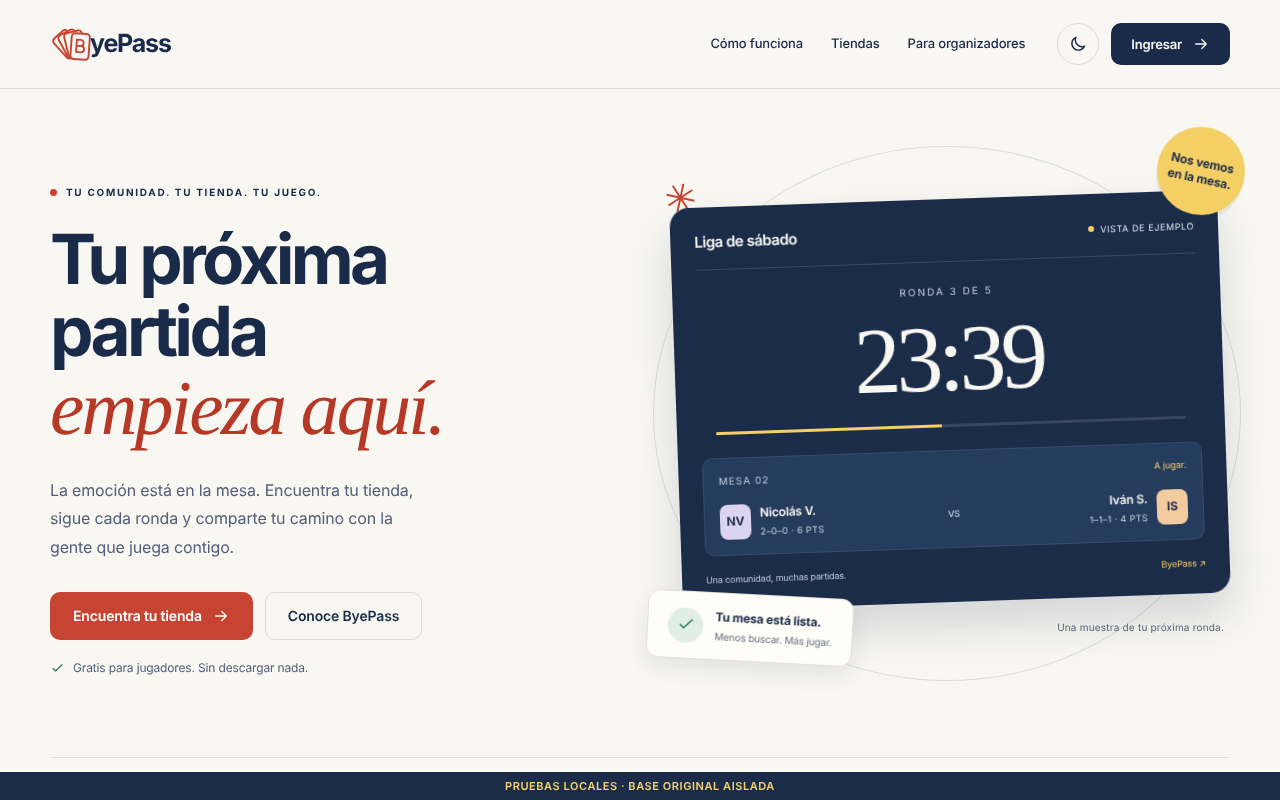
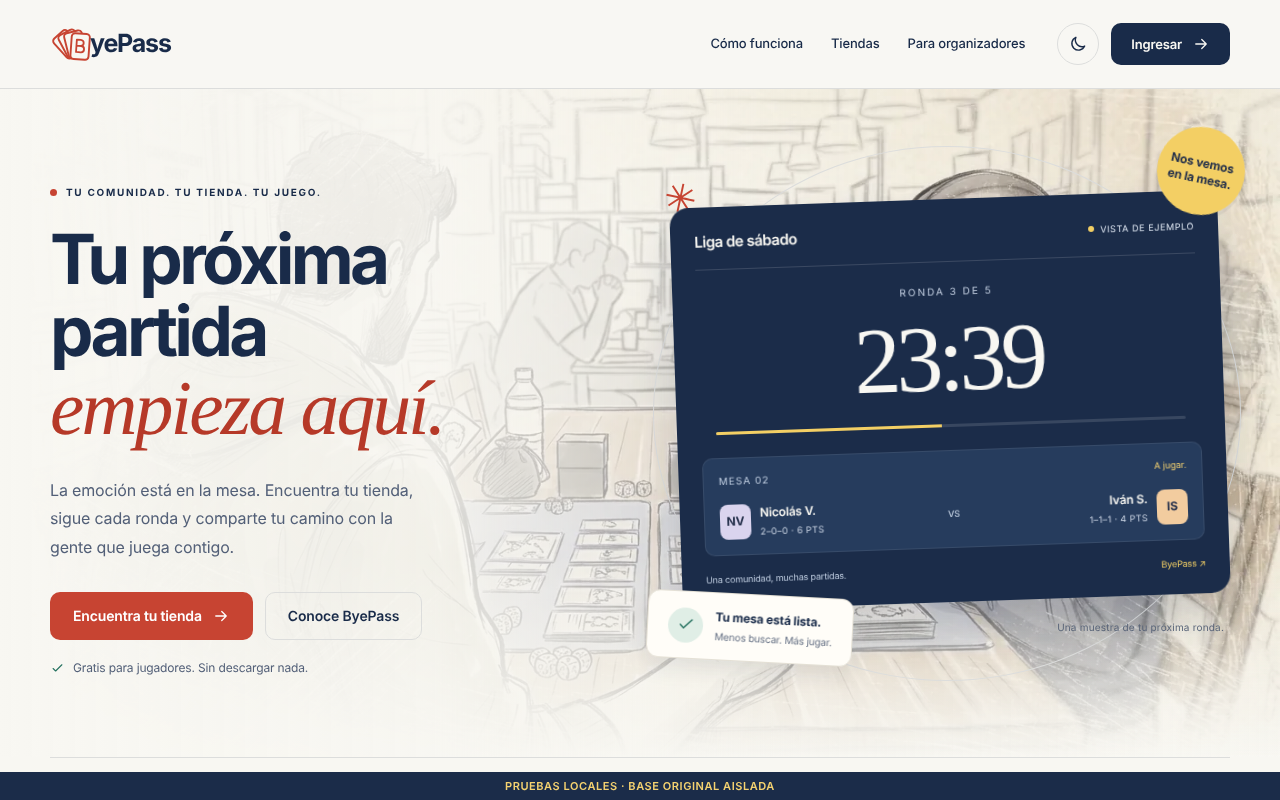
Agregar ilustración de fondo a la portada
La imagen se desvanece hacia el texto para mantener el contraste, tiene
velo azul en modo oscuro y una versión liviana para el celular. El servidor
local sirve .webp y .jpg con su tipo correcto.

Claude-Session: https://claude.ai/code/session_017J8qEyXYCgoE6VSbobpe33

Changed region(s): [[0.3438, 0.0938, 1.0, 0.9062], [0.5625, 0.8125, 0.625, 0.9062], [0.375, 0.75, 0.4062, 0.7812]]

diff --git a/web/portada.css b/web/portada.css
@@ -236,3 +236,26 @@ h1,h2,h3,p {margin:0}
 @media (prefers-reduced-motion:reduce) {
   html{scroll-behavior:auto}*,*::before,*::after{animation:none!important;transition:none!important}
 }
+
+/* Ilustración de fondo de la portada: una partida en la tienda. Se desvanece hacia el texto
+   para que el título y los botones conserven el contraste. */
+html {overflow-x:clip}
+.hero {position:relative;isolation:isolate}
+.hero::before {content:"";position:absolute;z-index:-1;top:0;bottom:0;left:50%;width:100vw;transform:translateX(-50%);
+  background:
+    linear-gradient(90deg,var(--pagina) 0%,color-mix(in srgb,var(--pagina) 92%,transparent) 34%,color-mix(in srgb,var(--pagina) 35%,transparent) 62%,color-mix(in srgb,var(--pagina) 15%,transparent) 100%),
+    linear-gradient(180deg,transparent 70%,var(--pagina) 100%),
+    url("fondo-portada.webp") center right/cover no-repeat}
+:root[data-tema="noche"] .hero::before {
+  background:
+    linear-gradient(90deg,var(--pagina) 0%,color-mix(in srgb,var(--pagina) 92%,transparent) 32%,color-mix(in srgb,var(--pagina) 72%,transparent) 65%,color-mix(in srgb,var(--pagina) 60%,transparent) 100%),
+    linear-gradient(180deg,transparent 70%,var(--pagina) 100%),
+    url("fondo-portada.webp") center right/cover no-repeat;filter:saturate(.7)}
+@media(max-width:800px){
+  .hero::before {background:
+    linear-gradient(180deg,color-mix(in srgb,var(--pagina) 45%,transparent) 0%,color-mix(in srgb,var(--pagina) 85%,transparent) 26%,var(--pagina) 44%),
+    url("fondo-portada-movil.webp") 32% top/auto 46% no-repeat,var(--pagina)}
+  :root[data-tema="noche"] .hero::before {background:
+    linear-gradient(180deg,color-mix(in srgb,var(--pagina) 65%,transparent) 0%,color-mix(in srgb,var(--pagina) 90%,transparent) 26%,var(--pagina) 44%),
+    url("fondo-portada-movil.webp") 32% top/auto 46% no-repeat,var(--pagina)}
+}

diff --git a/README.md b/README.md
@@ -95,6 +95,10 @@ El abanico de cartas con la «B» reemplaza al logo de flechas, en las cabeceras
 
 <p align="center"><img src="docs/capturas/logo-cabeceras.png" alt="El nuevo logo en las cabeceras, en tema claro y oscuro" width="420"></p>
 
+### Ilustración de fondo en la portada
+
+La portada lleva de fondo una ilustración de una partida en una tienda (`web/fondo-portada.webp`, con una versión liviana para el celular). Se desvanece hacia el lado del texto para que el título y los botones se lean bien, y en modo oscuro queda bajo un velo azul.
+
 ### 4. Registro recuperable
 
 - El registro distingue un rechazo confirmado de una interrupción con resultado incierto, y nunca borra una cuenta que quedó bien guardada.
